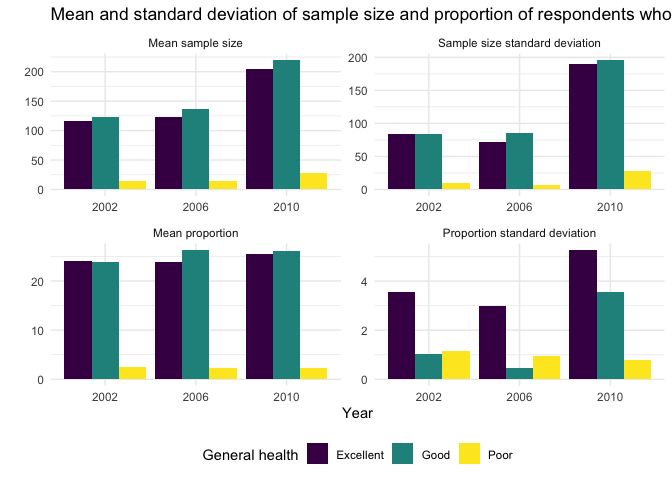
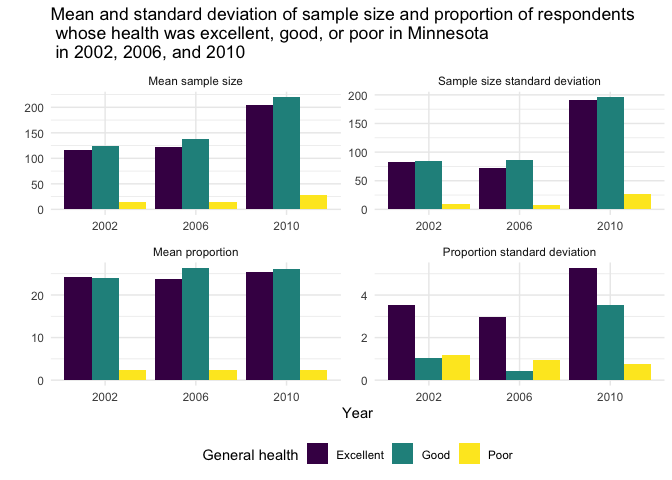
Homework 2

diff --git a/pubh7462_hw2_elger005.md b/pubh7462_hw2_elger005.md
@@ -218,7 +218,7 @@ df2 %>%
   geom_col(position = "dodge") +
   theme_minimal() +
   labs(
-    title = "Mean and standard deviation of sample size and proportion of respondents whose health was excellent, good, or poor in Minnesota in 2002, 2006, and 2010",
+    title = "Mean and standard deviation of sample size and proportion of respondents \n whose health was excellent, good, or poor in Minnesota \n in 2002, 2006, and 2010",
     x = "Year",
     y = " "
   ) +
